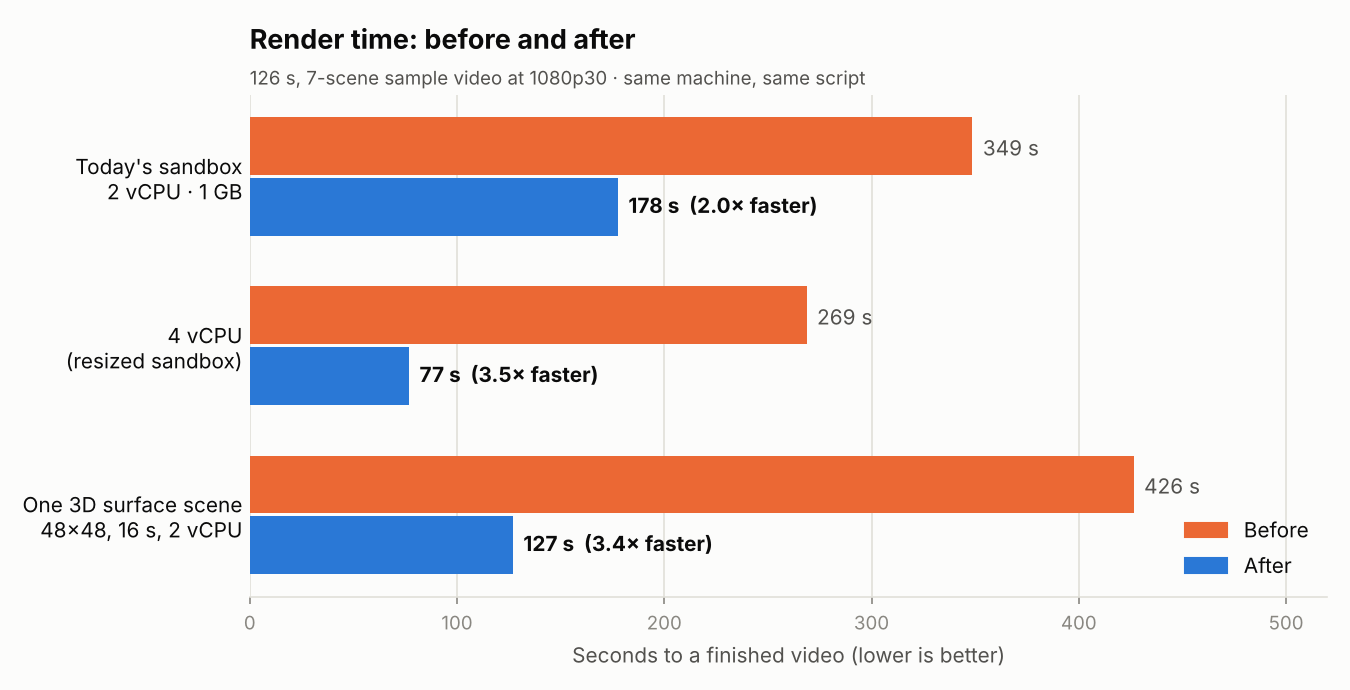
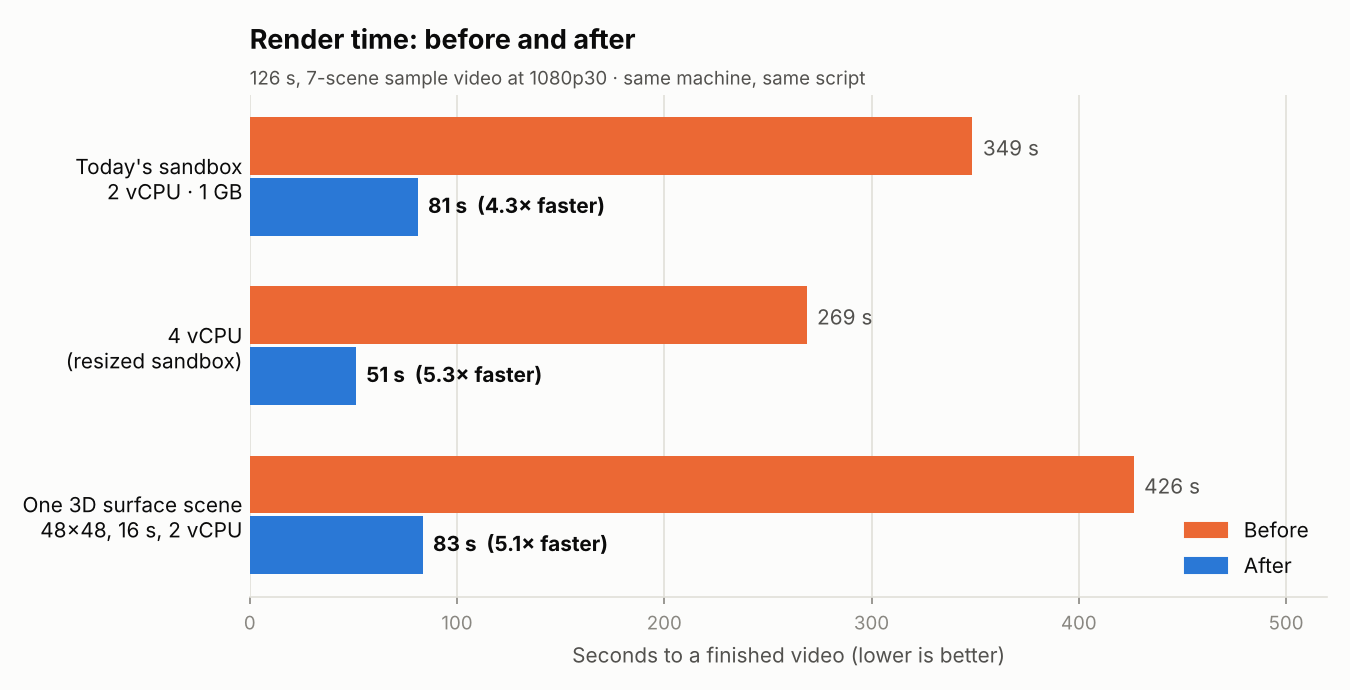
Update render performance docs with the final numbers
Claude-Session: https://claude.ai/code/session_01AJbGsRtfDvnZMU6GSKy9yP

Changed region(s): [[0.3111, 0.2435, 0.6222, 0.3652], [0.3111, 0.7304, 0.5289, 0.8522], [0.2489, 0.487, 0.4356, 0.6087]]

diff --git a/docs/render-performance/README.md b/docs/render-performance/README.md
@@ -4,21 +4,24 @@ Measured with `scripts/bench/harness.ts`. It runs the real prepare, render job
 and postprocess code on a seven-scene, 126 s, 1080p30 sample video
 (`scripts/bench/sample-video.py`): graphs with live readouts, formulas,
 geometry and a lit 3D surface. Narration uses tone clips of realistic length.
-Before is `696bf4e` (main). Both sides ran back to back on the same machine.
+Before is `696bf4e` (main). Both sides ran on the same machine.
 
 ![Render time before and after](render-times.png)
 
 | Setup | Before | After |
 | --- | --- | --- |
-| Today's sandbox (2 vCPU, 1 GB) | 348.7 s | 177.7 s (2.0×) |
-| 4 vCPU (resized sandbox) | 268.7 s | 76.9 s (3.5×) |
-| One 48×48 lit surface scene, 16 s (2 vCPU) | 426.5 s | 127.0 s (3.4×) |
-| Peak memory per render process | 0.75–1 GB | ~445 MB |
+| Today's sandbox (2 vCPU, 1 GB) | 348.7 s | 81.0 s (4.3×) |
+| 4 vCPU | 268.7 s | 51.1 s (5.3×) |
+| One 48×48 lit surface scene, 16 s (2 vCPU) | 426.5 s | 83.4 s (5.1×) |
+| Memory per render process | 0.75–1 GB | ~210 MB, plus ~180 MB shared |
 | Script error raised during an animation | hung until the 30 min job timeout | fails in ~3 s |
 
-The production template builds with the E2B SDK defaults (2 vCPU, 1 GB). Only
-one render fits in that, so scenes rendered one after another. The template now
-asks for 8 vCPU / 8 GB. It takes effect once the template is rebuilt:
+The 2 vCPU run gives the driver 850 MB of free memory, which is what a 1 GB
+sandbox leaves. It fits two renders at once if at least ~670 MB is free; with
+less it renders one at a time.
+
+The production template builds with the E2B SDK defaults (2 vCPU, 1 GB). It now
+asks for 8 vCPU / 8 GB, which takes effect once the template is rebuilt:
 `npm run e2b:build:prod` in `sandbox-templates/manim20-ffmpeg-bookmarks-latest`.
 Set `E2B_TEMPLATE_CPU_COUNT` and `E2B_TEMPLATE_MEMORY_MB` to match your plan.
 The driver uses whatever the sandbox has.
@@ -27,29 +30,40 @@ The driver uses whatever the sandbox has.
 
 ![Frames from the old and new pipeline](frames-before-after.jpg)
 
-Left is before, right is after, at 12 s, 50 s and 100 s of the final videos
-(56–58 dB PSNR between them).
+Left is before, right is after, at 12 s, 50 s and 100 s of the final videos.
+Across every frame of the two videos PSNR averages 57 dB, with the worst frame
+at 50 dB.
 
-- The 3D batching and the faster path drawing are pixel-identical to Manim's own
-  drawing, checked over four camera angles and 2,813 decoded frames.
-- A held frame converted once decodes identically to converting it every frame.
-- Encoding is x264 superfast at CRF 17 instead of medium at CRF 18. Against a
-  lossless render that matches or slightly beats the old quality (SSIM 0.99982,
-  PSNR 60.6 vs 59.8 dB). Files are about twice the size, around 0.75 Mbit/s.
-- Split scenes join with the same frame count, timestamps and soundtrack as a
-  whole render (`tests/render-segments.py`).
+- The drawing changes are pixel-identical to Manim's own drawing. That covers
+  the 3D batching, depth sort, axis shading, path building, canvas reset and
+  family walks. Checked over four camera angles and several surface types, and
+  over thousands of decoded 2D frames.
+- Handing frames to the encoder without a copy, and converting held frames
+  once, decodes identically.
+- Encoding is x264 superfast at CRF 16 without B-frames, instead of medium at
+  CRF 18. Against a lossless render the quality matches (SSIM 0.99982, PSNR
+  60.5 vs 59.8 dB). Files are about twice the size, ~0.9 Mbit/s.
+- Narration lands 21 ms earlier than before, i.e. on time. Scene audio is now
+  stored losslessly, which drops AAC's 1,024-sample encoder priming; Manim
+  muxed that priming without an edit list.
+- Split scenes join with the same frames, timestamps and sounds as a whole
+  render (`tests/render-segments.py`).
 
 ## Where the time went
 
 | Change | Effect |
 | --- | --- |
-| Batched 3D lighting, projection and drawing | A lit surface spent most of each frame in per-patch Python; now 2.3–3.4× faster |
-| x264 superfast at CRF 17 | 35% less encoder CPU, half its memory, same quality |
-| Bounded frame queue | Manim could queue ~1 GB of 8 MB frames for x264 |
-| Held frames converted once | Narration holds converted the same frame to YUV for every frame |
-| One process per scene, longest first, per usable CPU | Replaces fixed groups split up front, which left cores idle |
-| Long scenes split by frame range | A 3D camera move no longer runs on one core while the rest wait |
-| Postprocess inside the render job | One launch and poll fewer, and scene audio decodes in parallel |
+| Batched 3D lighting, projection, depth sort and drawing | A lit surface spent most of each frame in per-patch Python |
+| ThreeDAxes shading computed once per frame | It walked each axis ~200 times a frame |
+| Faster `get_family`, path building and canvas reset | Same results with less Python per frame; 2D scenes ~30% faster |
+| Frames handed to x264 without a copy; held frames converted once | Frame conversion 4× faster |
+| x264 superfast, CRF 16, no B-frames | Half the encoder CPU, ~75 MB less per render, same quality |
+| Bounded frame queue | Manim could queue ~1 GB of 8 MB frames |
+| Renders forked from a server that has already imported Manim | No ~2 s import per scene; shared memory lets two renders fit 1 GB |
+| One process per scene, longest first; long scenes split by frame range | Cores stay busy; a 3D camera move no longer holds up the video |
+| `--silent` | Manim asked PyPI for its latest version after every render (10 s timeout) |
+| Lossless scene audio | AAC per scene was 5× the cost and added a 21 ms lag |
+| Postprocess inside the render job | One launch and poll fewer; scene audio decodes in parallel |
 | Poll every 2 s on one connection | A finished job waited up to 10 s to be noticed |
 | Titles, description and thumbnails during the render | They used to wait for the upload |
 | Parallel steps and fewer round trips before the render | Language, scene plan and previous video run together |
